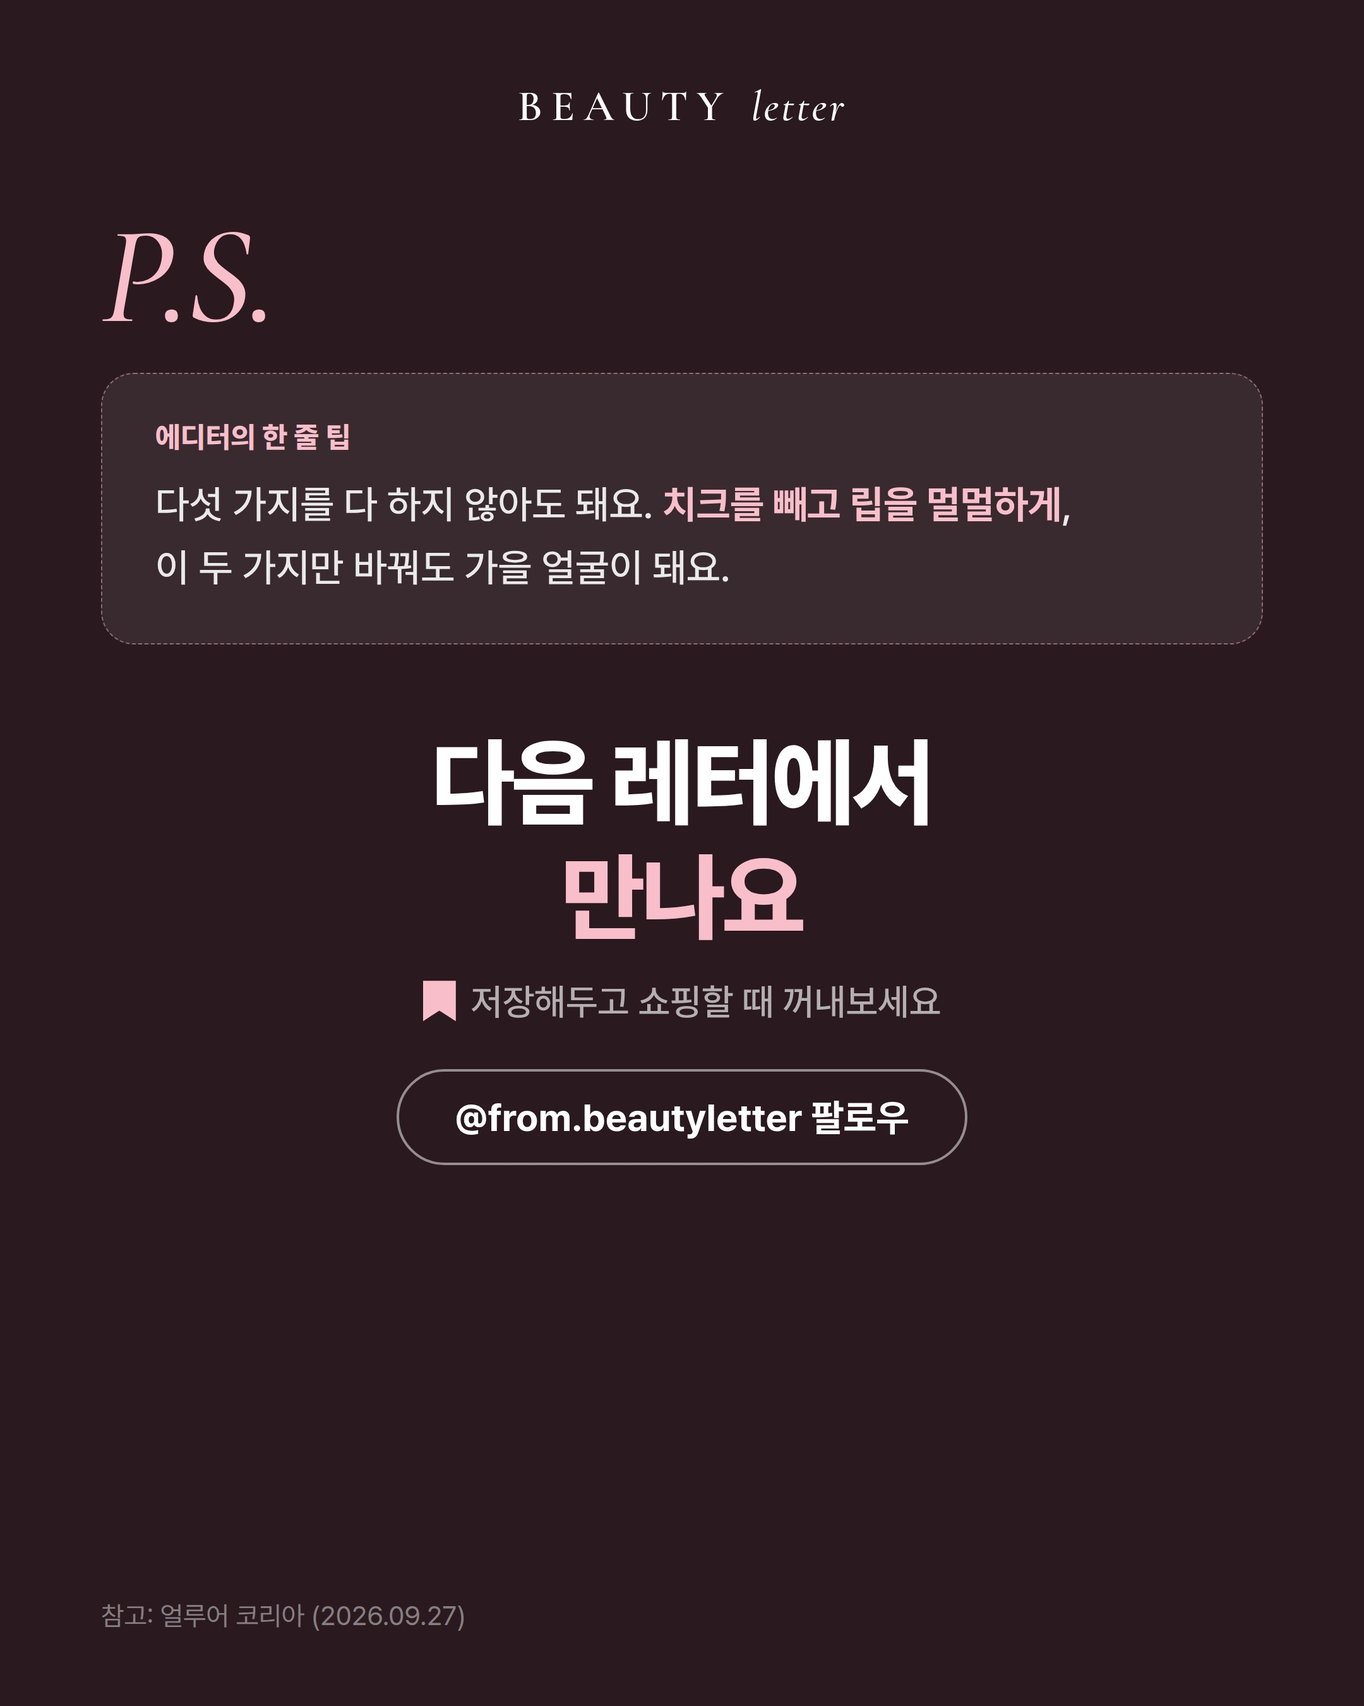
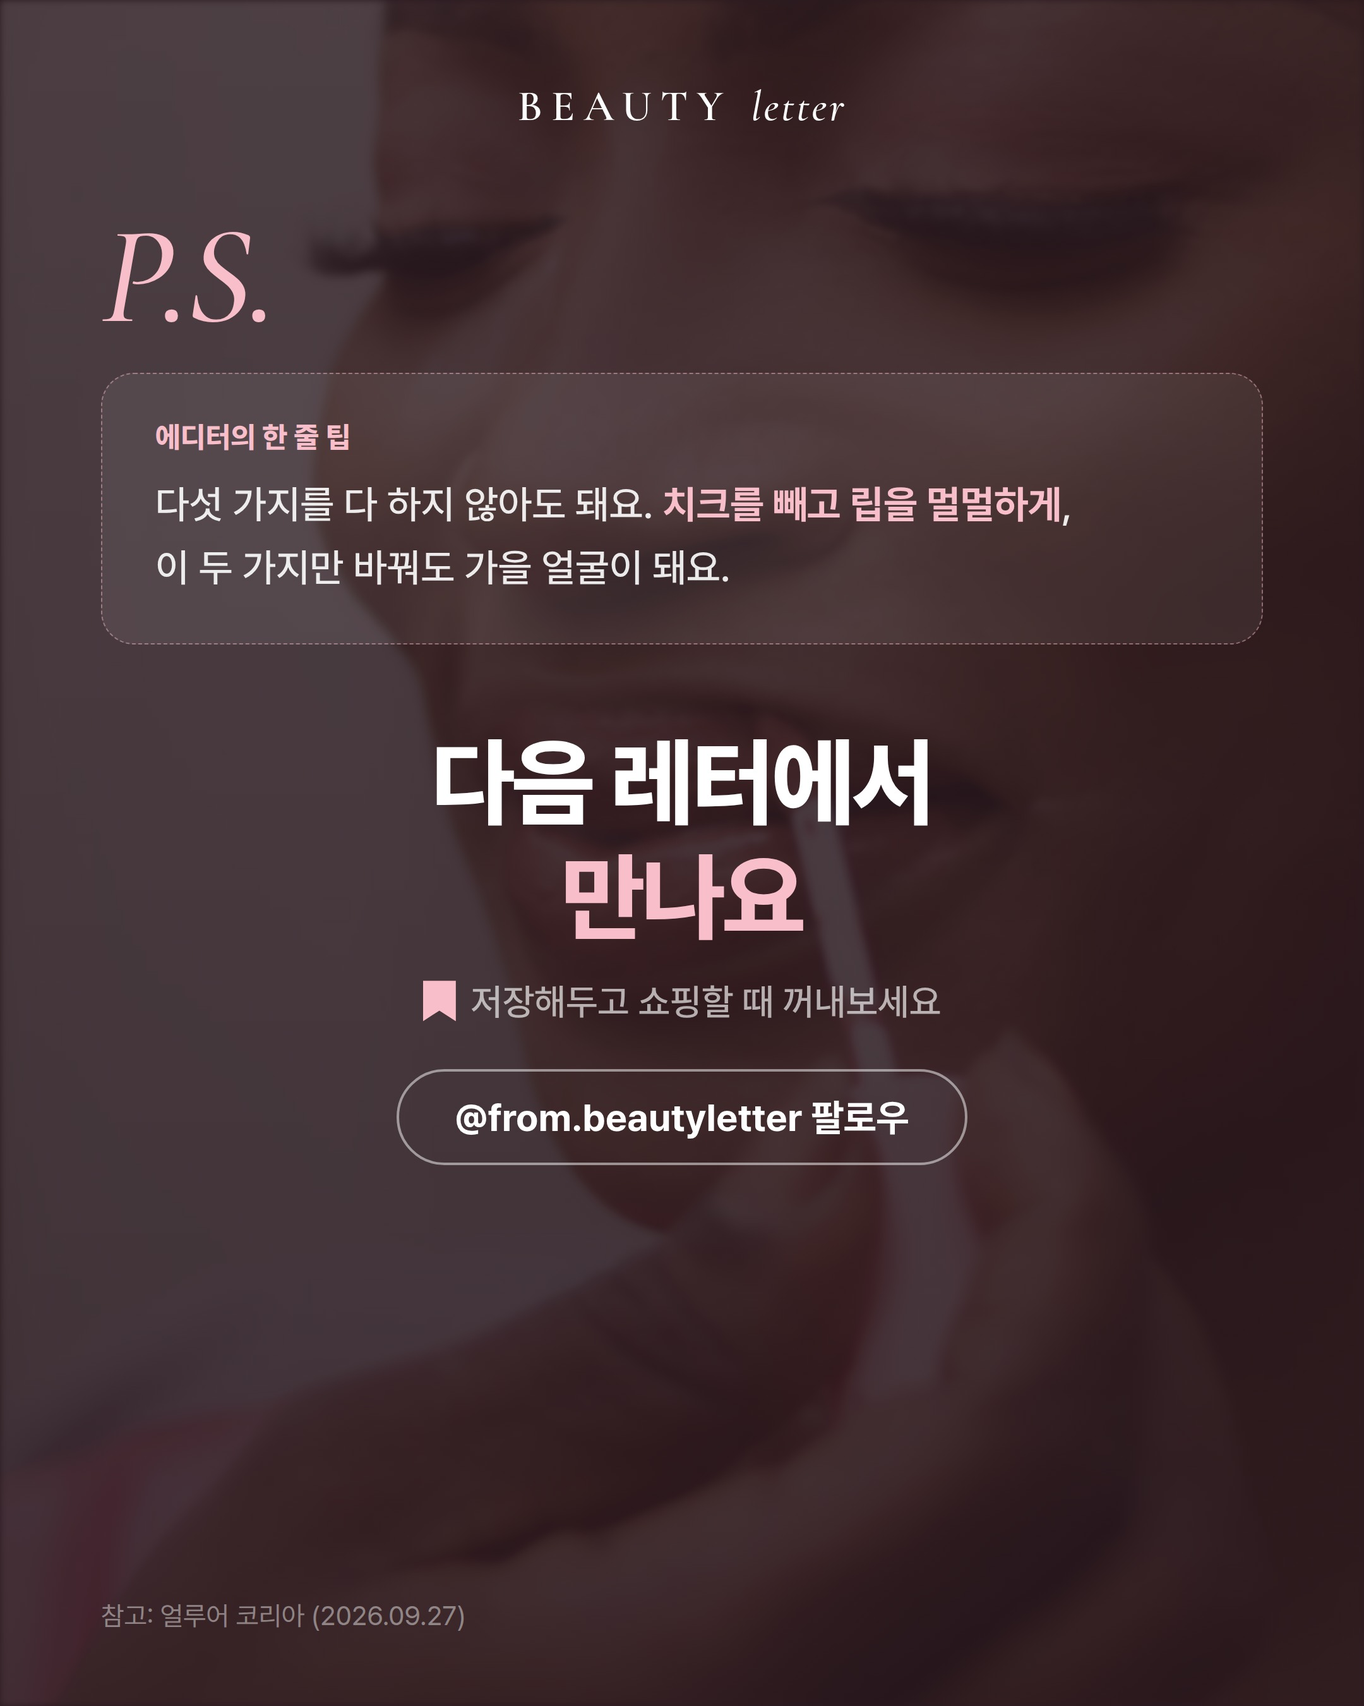
뷰티레터 10/5: 무료 입술 사진으로 표지·본문 사진 추가
Claude-Session: https://claude.ai/code/session_01M29FXMb16fvzM5BCrcufte

diff --git a/design/beauty_news/letters/2026-10-05_am_trend/slides.html b/design/beauty_news/letters/2026-10-05_am_trend/slides.html
@@ -11,13 +11,13 @@
 .new-badge { position: absolute; left: var(--pad); top: 190px; z-index: 2; font-family: var(--serif); font-style: italic; font-size: 44px; font-weight: 600; color: var(--rose); border: 2px solid var(--rose); border-radius: 999px; padding: 6px 30px 10px; }
 </style><link rel="stylesheet" href="extra.css" />
 </head><body><div class="sheet">
-<section class="card cover-type" data-name="01_cover"><div class="ring"></div><div class="ring two"></div><div class="topbar"><div class="wordmark">BEAUTY <i>letter</i></div></div>
-  <div class="big-word">Less</div>
-  <div class="body low"><div class="kicker"><span class="cat">Issue Letter</span><span class="sep">·</span><span>FALL MAKEUP TREND</span></div><h1>올가을 메이크업,<br/><span class="hl">더하기보다 빼기</span></h1><p>가을 메이크업 트렌드 5가지,<br/>이것만 기억하세요.</p></div></section>
+<section class="card cover-photo" data-name="01_cover"><div data-slot="photo"><img src="img/cover_photo.jpg" alt="" style="object-position:center 35%" /></div><div class="shade"></div><div class="topbar"><div class="wordmark">BEAUTY <i>letter</i></div></div>
+  <div class="body"><div class="kicker"><span class="cat">Issue Letter</span><span class="sep">·</span><span>FALL MAKEUP TREND</span></div><h1>올가을 메이크업,<br/><span class="em">더하기보다 빼기</span></h1><p class="sub">가을 메이크업 트렌드 5가지,<br/>이것만 기억하세요.</p></div>
+  </section>
 <section class="card trend" data-name="02_t1"><div class="topbar"><div class="wordmark" style="font-size:26px;letter-spacing:5px">BEAUTY <i>letter</i></div><div class="pageno"><b>02</b> / 07</div></div><div class="kicker">TREND 01 · BROW</div><h2>가장 먼저 바꿀 건,<br/><span class="hl">얇은 눈썹</span></h2>
 <div class="vis"><div class="cmp"><div><svg viewBox="0 0 200 60" width="240"><path d="M10 45 Q70 8 150 18 Q180 22 192 34 Q170 30 150 32 Q80 30 18 56 Z" fill="#4A3428"/></svg><span>이전 · 두껍고 일자</span></div><div class="on"><svg viewBox="0 0 200 60" width="240"><path d="M14 48 Q80 2 190 30 Q90 14 16 52 Z" fill="#4A3428"/></svg><span>올가을 · 얇은 아치형</span></div></div></div><p class="ds">90년대 무드의 가느다란 아치형 눈썹. 펜으로 그린 듯 얇은 눈썹이 <b>답답해 보이던 인상을 가볍게</b> 만들어줘요.</p><div class="tip"><span>TIP</span>인상이 답답해 보였다면 눈썹부터 얇게 다듬어 보세요.</div><div class="foot">* 출처: 얼루어 코리아 (2026.09.27)</div></section>
 <section class="card trend" data-name="03_t2"><div class="topbar"><div class="wordmark" style="font-size:26px;letter-spacing:5px">BEAUTY <i>letter</i></div><div class="pageno"><b>03</b> / 07</div></div><div class="kicker">TREND 02 · LIP</div><h2>가을엔 레드립?<br/>이젠 <span class="hl">멀멀한 누드 립</span></h2>
-<div class="vis"><div class="lips"><div><svg viewBox="0 0 200 106" width="190"><path d="M10 50 Q50 12 82 30 Q100 22 118 30 Q150 12 190 50 Q150 96 100 96 Q50 96 10 50 Z" fill="#C9967E"/><path d="M12 50 Q60 60 100 54 Q140 60 188 50" stroke="rgba(60,20,30,.35)" stroke-width="3" fill="none"/></svg><span>베이지</span></div><div><svg viewBox="0 0 200 106" width="190"><path d="M10 50 Q50 12 82 30 Q100 22 118 30 Q150 12 190 50 Q150 96 100 96 Q50 96 10 50 Z" fill="#8E5A45"/><path d="M12 50 Q60 60 100 54 Q140 60 188 50" stroke="rgba(60,20,30,.35)" stroke-width="3" fill="none"/></svg><span>브라운</span></div><div><svg viewBox="0 0 200 106" width="190"><path d="M10 50 Q50 12 82 30 Q100 22 118 30 Q150 12 190 50 Q150 96 100 96 Q50 96 10 50 Z" fill="#A9665F"/><path d="M12 50 Q60 60 100 54 Q140 60 188 50" stroke="rgba(60,20,30,.35)" stroke-width="3" fill="none"/></svg><span>로즈 브라운</span></div></div></div><p class="ds">베이지·브라운·로즈 브라운처럼 차분한 컬러. 존재감을 강하게 주장하지 않지만 <b>묘하게 기억에 남는</b> 색이에요.</p><div class="tip"><span>TIP</span>생기가 살짝 느껴질 정도의 차분한 컬러를 고르세요.</div><div class="foot">* 출처: 얼루어 코리아 (2026.09.27)</div></section>
+<div class="vis photo"><img src="img/lip_photo.jpg" alt=""/><div class="chips"><div><i style="background:#C9967E"></i><span>베이지</span></div><div><i style="background:#8E5A45"></i><span>브라운</span></div><div><i style="background:#A9665F"></i><span>로즈 브라운</span></div></div></div><p class="ds">베이지·브라운·로즈 브라운처럼 차분한 컬러. 존재감을 강하게 주장하지 않지만 <b>묘하게 기억에 남는</b> 색이에요.</p><div class="tip"><span>TIP</span>생기가 살짝 느껴질 정도의 차분한 컬러를 고르세요.</div><div class="foot">* 출처: 얼루어 코리아 (2026.09.27)</div></section>
 <section class="card trend" data-name="04_t3"><div class="topbar"><div class="wordmark" style="font-size:26px;letter-spacing:5px">BEAUTY <i>letter</i></div><div class="pageno"><b>04</b> / 07</div></div><div class="kicker">TREND 03 · CHEEK</div><h2>치크는 빼거나,<br/><span class="hl">아주 얇게</span></h2>
 <div class="vis"><div class="cmp"><div class="ck"><div class="face"><i style="opacity:0.75"></i><i class="r" style="opacity:0.75"></i></div><span>여름 · 썬번 블러셔</span></div><div class="on"><div class="ck"><div class="face"><i style="opacity:0.12"></i><i class="r" style="opacity:0.12"></i></div><span>올가을 · 있는 듯 없는 듯</span></div></div></div></div><p class="ds">여름의 썬번 메이크업과 정반대. 치크를 생략하거나 <b>있는 듯 없는 듯</b> 아주 얇게 올리는 안티 블러시예요.</p><div class="tip"><span>TIP</span>치크를 빼는 대신 립이나 눈에 포인트를 주세요.</div><div class="foot">* 출처: 얼루어 코리아 (2026.09.27)</div></section>
 <section class="card trend" data-name="05_t4"><div class="topbar"><div class="wordmark" style="font-size:26px;letter-spacing:5px">BEAUTY <i>letter</i></div><div class="pageno"><b>05</b> / 07</div></div><div class="kicker">TREND 04 · SKIN</div><h2>물광도 매트도 아닌,<br/><span class="hl">세미 글로우</span></h2>
@@ -25,7 +25,7 @@
 <section class="card trend" data-name="06_t5"><div class="topbar"><div class="wordmark" style="font-size:26px;letter-spacing:5px">BEAUTY <i>letter</i></div><div class="pageno"><b>06</b> / 07</div></div><div class="kicker">TREND 05 · EYE</div><h2>포인트 하나는<br/><span class="hl">파스텔 아이</span></h2>
 <div class="vis"><div class="pastel"><div><i style="background:radial-gradient(circle at 35% 30%, #fff 0%, #BFE8D8 45%, #8CCDB6 100%)"></i><span>민트</span></div><div><i style="background:radial-gradient(circle at 35% 30%, #fff 0%, #DCC8EE 45%, #B79BD8 100%)"></i><span>라일락</span></div><div><i style="background:radial-gradient(circle at 35% 30%, #fff 0%, #C6DDF5 45%, #93B9E4 100%)"></i><span>파스텔 블루</span></div></div></div><p class="ds">민트·라일락처럼 평소 잘 안 쓰는 컬러를 포인트로. <b>쉬머 텍스처</b>를 더하면 은은하게 빛나요.</p><div class="tip"><span>TIP</span>처음이라면 눈 앞머리나 눈두덩에만 살짝 올려 시작해요.</div><div class="foot">* 출처: 얼루어 코리아 (2026.09.27)</div></section>
 
-<section class="card ps" data-name="07_ps"><div class="wordmark">BEAUTY <i>letter</i></div>
+<section class="card ps" data-name="07_ps"><div class="bgimg"><img src="img/cover_photo.jpg" alt="" /></div><div class="wordmark">BEAUTY <i>letter</i></div>
   <div class="inner"><div class="ps-mark">P.S.</div><div class="note"><div class="label">에디터의 한 줄 팁</div><p>다섯 가지를 다 하지 않아도 돼요. <b>치크를 빼고 립을 멀멀하게</b>,<br/>이 두 가지만 바꿔도 가을 얼굴이 돼요.</p></div>
   <div class="bye"><h2>다음 레터에서<br/><em>만나요</em></h2><p><i></i>저장해두고 쇼핑할 때 꺼내보세요</p><div><span class="follow">@from.beautyletter 팔로우</span></div></div></div>
   <div class="credit">참고: 얼루어 코리아 (2026.09.27)</div></section>

diff --git a/design/beauty_news/letters/2026-10-05_pm_lip/slides.html b/design/beauty_news/letters/2026-10-05_pm_lip/slides.html
@@ -11,9 +11,9 @@
 .new-badge { position: absolute; left: var(--pad); top: 190px; z-index: 2; font-family: var(--serif); font-style: italic; font-size: 44px; font-weight: 600; color: var(--rose); border: 2px solid var(--rose); border-radius: 999px; padding: 6px 30px 10px; }
 </style><link rel="stylesheet" href="extra.css" />
 </head><body><div class="sheet">
-<section class="card cover-type" data-name="01_cover"><div class="ring"></div><div class="ring two"></div><div class="topbar"><div class="wordmark">BEAUTY <i>letter</i></div></div>
-  <div class="big-word">Lip</div>
-  <div class="body low"><div class="kicker"><span class="cat">Issue Letter</span><span class="sep">·</span><span>MEOLMEOL LIP</span></div><h1>요즘 다들 바르는<br/><span class="hl">'멀멀 립'</span> 만드는 법</h1><p>펜슬, 틴트, 글로스까지 차곡차곡.<br/>4가지 방법을 담았어요.</p></div></section>
+<section class="card cover-photo" data-name="01_cover"><div data-slot="photo"><img src="img/cover_photo.jpg" alt="" style="object-position:center 45%" /></div><div class="shade"></div><div class="topbar"><div class="wordmark">BEAUTY <i>letter</i></div></div>
+  <div class="body"><div class="kicker"><span class="cat">Issue Letter</span><span class="sep">·</span><span>MEOLMEOL LIP</span></div><h1>요즘 다들 바르는<br/><span class="em">'멀멀 립'</span> 만드는 법</h1><p class="sub">펜슬, 틴트, 글로스까지 차곡차곡.<br/>4가지 방법을 담았어요.</p></div>
+  </section>
 <section class="card mlip" data-name="02_m1"><div class="topbar"><div class="wordmark" style="font-size:26px;letter-spacing:5px">BEAUTY <i>letter</i></div><div class="pageno"><b>02</b> / 06</div></div><div class="kicker">METHOD 01 · BLUR + GLOSS</div><h2>블러 틴트 깔고,<br/><span class="hl">채도는 낮추고</span></h2>
 <div class="vis"><div><div class="l"><svg viewBox="0 0 200 106" width="200"><path d="M10 50 Q50 12 82 30 Q100 22 118 30 Q150 12 190 50 Q150 96 100 96 Q50 96 10 50 Z" fill="#E9C9C3"/><path d="M12 50 Q60 60 100 54 Q140 60 188 50" stroke="rgba(60,20,30,.35)" stroke-width="3" fill="none"/><path d="M6 50 Q50 6 82 26 Q100 16 118 26 Q150 6 194 50 Q150 100 100 100 Q50 100 6 50 Z" fill="none" stroke="#9B6E7E" stroke-width="5"/></svg></div><span>모브 펜슬로 오버립</span></div><div><div class="l"><svg viewBox="0 0 200 106" width="200"><path d="M10 50 Q50 12 82 30 Q100 22 118 30 Q150 12 190 50 Q150 96 100 96 Q50 96 10 50 Z" fill="#C98D86"/><path d="M12 50 Q60 60 100 54 Q140 60 188 50" stroke="rgba(60,20,30,.35)" stroke-width="3" fill="none"/></svg></div><span>블러 틴트 베이스</span></div><div><div class="l"><svg viewBox="0 0 200 106" width="200"><path d="M10 50 Q50 12 82 30 Q100 22 118 30 Q150 12 190 50 Q150 96 100 96 Q50 96 10 50 Z" fill="#CDA39D"/><path d="M12 50 Q60 60 100 54 Q140 60 188 50" stroke="rgba(60,20,30,.35)" stroke-width="3" fill="none"/><ellipse cx="100" cy="68" rx="34" ry="7" fill="rgba(255,255,255,.45)"/></svg></div><span>글로스로 물먹립</span></div></div><ol><li><b>1</b><p><b>모브 톤 립 펜슬</b>로 입술 라인을 넓혀 원하는 오버립 윤곽을 잡아요.</p></li><li><b>2</b><p>주름을 메워주는 보송한 <b>블러 틴트</b>를 베이스로 넓게 깔아요.</p></li><li><b>3</b><p>색이 너무 쨍하면 <b>흰기 도는 투명한 립</b>을 덧발라 채도를 낮춰요.</p></li><li><b>4</b><p>마지막에 <b>바닐라 빛 볼륨 글로스</b>를 은은하게 얹어요.</p></li></ol><div class="foot">* 출처: 얼루어 코리아 (2026.09.30)</div></section>
 <section class="card mlip" data-name="03_m2"><div class="topbar"><div class="wordmark" style="font-size:26px;letter-spacing:5px">BEAUTY <i>letter</i></div><div class="pageno"><b>03</b> / 06</div></div><div class="kicker">METHOD 02 · FOR BEGINNER</div><h2>왕초보라면,<br/><span class="hl">단정한 오버립</span></h2>
@@ -23,7 +23,7 @@
 <section class="card mlip" data-name="05_m4"><div class="topbar"><div class="wordmark" style="font-size:26px;letter-spacing:5px">BEAUTY <i>letter</i></div><div class="pageno"><b>05</b> / 06</div></div><div class="kicker">METHOD 04 · MATTE</div><h2>가을엔 톡톡,<br/><span class="hl">매트 오버립</span></h2>
 <div class="vis"><div><div class="l"><svg viewBox="0 0 200 106" width="200"><path d="M10 50 Q50 12 82 30 Q100 22 118 30 Q150 12 190 50 Q150 96 100 96 Q50 96 10 50 Z" fill="#E6CFC6"/><path d="M12 50 Q60 60 100 54 Q140 60 188 50" stroke="rgba(60,20,30,.35)" stroke-width="3" fill="none"/><path d="M6 50 Q50 6 82 26 Q100 16 118 26 Q150 6 194 50 Q150 100 100 100 Q50 100 6 50 Z" fill="none" stroke="#B07E62" stroke-width="5"/></svg></div><span>피치·브라운 펜슬</span></div><div><div class="l"><svg viewBox="0 0 200 106" width="200"><path d="M10 50 Q50 12 82 30 Q100 22 118 30 Q150 12 190 50 Q150 96 100 96 Q50 96 10 50 Z" fill="#A8705C"/><path d="M12 50 Q60 60 100 54 Q140 60 188 50" stroke="rgba(60,20,30,.35)" stroke-width="3" fill="none"/></svg></div><span>브라운 매트 톡톡</span></div><div><div class="l"><svg viewBox="0 0 200 106" width="200"><path d="M10 50 Q50 12 82 30 Q100 22 118 30 Q150 12 190 50 Q150 96 100 96 Q50 96 10 50 Z" fill="#A8705C"/><ellipse cx="100" cy="52" rx="38" ry="16" fill="#8E5A48" opacity=".85"/><path d="M12 50 Q60 60 100 54 Q140 60 188 50" stroke="rgba(60,20,30,.35)" stroke-width="3" fill="none"/></svg></div><span>도톰하면 안쪽만</span></div></div><ol><li><b>1</b><p>파운데이션으로 덮지 말고 <b>피치·브라운 펜슬</b>로 칙칙한 입술 라인부터 교정해요.</p></li><li><b>2</b><p><b>베이지·브라운 매트 립</b>을 손가락이나 브러시로 톡톡 얇게 밀착해요.</p></li><li><b>3</b><p>라인이 진해 보이지 않게 <b>펜슬로 경계를 한 번 더 풀어요.</b></p></li><li><b>4</b><p>입술이 도톰하면 <b>안쪽에만</b> 발라 여백을 남겨요.</p></li></ol><div class="foot">* 출처: 얼루어 코리아 (2026.09.30)</div></section>
 
-<section class="card ps" data-name="06_ps"><div class="wordmark">BEAUTY <i>letter</i></div>
+<section class="card ps" data-name="06_ps"><div class="bgimg"><img src="img/cover_photo.jpg" alt="" /></div><div class="wordmark">BEAUTY <i>letter</i></div>
   <div class="inner"><div class="ps-mark">P.S.</div><div class="note"><div class="label">에디터의 한 줄 팁</div><p>멀멀 립의 핵심은 <b>채도 낮추기.</b> 새로 사지 말고<br/>갖고 있는 쨍한 립에 누드 핑크를 섞어 먼저 만들어 보세요.</p></div>
   <div class="bye"><h2>다음 레터에서<br/><em>만나요</em></h2><p><i></i>저장해두고 쇼핑할 때 꺼내보세요</p><div><span class="follow">@from.beautyletter 팔로우</span></div></div></div>
   <div class="credit">참고: 얼루어 코리아 (2026.09.30)</div></section>

diff --git a/design/beauty_news/letters/2026-10-05_am_trend/extra.css b/design/beauty_news/letters/2026-10-05_am_trend/extra.css
@@ -35,3 +35,10 @@
 .trend .pastel i { width: 210px; height: 210px; }
 .trend .vis span { font-size: 26px; }
 .trend .ds { font-size: 31px; }
+
+.trend .vis.photo { position: relative; overflow: hidden; padding: 0; }
+.trend .vis.photo img { position: absolute; inset: 0; width: 100%; height: 100%; object-fit: cover; object-position: center 55%; }
+.trend .vis.photo .chips { position: absolute; left: 24px; bottom: 22px; display: flex; gap: 12px; }
+.trend .vis.photo .chips > div { display: flex; align-items: center; gap: 10px; background: rgba(255,255,255,.92); border-radius: 999px; padding: 8px 18px 8px 8px; opacity: 1; }
+.trend .vis.photo .chips i { width: 34px; height: 34px; border-radius: 50%; display: block; }
+.trend .vis.photo .chips span { margin: 0; font-size: 22px; }

diff --git a/design/beauty_news/DESIGN_GUIDE.md b/design/beauty_news/DESIGN_GUIDE.md
@@ -84,7 +84,7 @@
 기본은 **풍경 배경 + 제품 누끼** 표지(`cover.style: "scene"`, `bg`·`image` 또는 `big`)입니다. 얼굴 없는 감성 사진을 흐리게 깔고 가운데에 누끼를 크게 올립니다.
 **인물 사진 표지는 메이크업을 보여줘야 하는 레터에만** 씁니다: `letter.json`의 `cover.style`을 `"photo"`로 두고 `image`, `focus`(사진 위치), `credit`(출처 한 줄)을 넣습니다.
 1. **AI 생성 (Topview)**: 인물이 나오는 일상 감성 컷. 1장에 약 0.3크레딧(Nano Banana 2 Lite, 1K, 4:5). **월 50크레딧 안에서만** 씁니다. **만들기 전에 반드시 사용자에게 먼저 허락을 받고**(무엇을 왜 만드는지, 예상 크레딧을 말한 뒤), **한 번에 1장만** 만들고(여분 생성 금지), 사용자가 보고 다시 요청할 때만 새로 만듭니다. AI 표기는 표지가 아니라 캡션에 한 줄로 넣습니다.
-2. **무료 사진 (Pexels/Unsplash)**: 상업 사용 가능. 출처는 `sources.md`에 적습니다(표지에는 넣지 않음).
+2. **무료 사진 (Pexels/Unsplash)** — 표지와 본문에 넣을 수 있는 무료 사진은 **먼저 찾아서 넣는다**(글자만 있는 표지·그림만 있는 본문으로 넘기지 않기, 2026-10-03).: 상업 사용 가능. 출처는 `sources.md`에 적습니다(표지에는 넣지 않음).
 3. **핀터레스트**: 원작자를 찾을 수 있는 사진만, 배경으로만 씁니다. 연예인·셀럽 얼굴 금지. 표기는 `@pinterest`가 아니라 원작자 이름. 요청이 오면 바로 내립니다.
 - 사진마다 `sources.md`에 출처 URL을 적습니다.
 

diff --git a/design/beauty_news/letters/2026-10-05_am_trend/sources.md b/design/beauty_news/letters/2026-10-05_am_trend/sources.md
@@ -3,6 +3,7 @@
 | 항목 | 출처 |
 |---|---|
 | 가을 메이크업 트렌드 5(얇은 눈썹·누드 립·안티 블러시·세미 글로우·파스텔) | 얼루어 코리아 "멀멀한 입술부터 힘을 뺀 눈썹까지, 가을 메이크업 트렌드 5" (2026.09.27) |
+| img/cover_photo.jpg | Pexels "Woman Applying Lip Gloss for a Natural Makeup Look" https://www.pexels.com/photo/woman-applying-lip-gloss-for-a-natural-makeup-look-33951062/ |
+| img/lip_photo.jpg | Pexels "Close-up of Open Lipstick in Hands" https://www.pexels.com/photo/close-up-of-open-lipstick-in-hands-23103541/ |
 
 - 눈썹·입술·볼·피부 그림은 CSS/SVG로 직접 그린 예시. 셀럽 이름·사진은 쓰지 않음.
-- 표지는 타이포형(사진 없음). AI 표지는 사용자 허락 후에만.

diff --git a/design/beauty_news/letters/2026-10-05_pm_lip/sources.md b/design/beauty_news/letters/2026-10-05_pm_lip/sources.md
@@ -3,6 +3,6 @@
 | 항목 | 출처 |
 |---|---|
 | 멀멀 립 4가지 방법(블러 틴트+글로스, 왕초보 오버립, 믹스 립, 매트 오버립) | 얼루어 코리아 "요즘 인플루언서 사이에서 유행하는 '멀멀 립' 만드는 비법" (2026.09.30) |
+| img/cover_photo.jpg | Pexels "A Close-up Shot of a Person Applying Lipstick" https://www.pexels.com/photo/a-close-up-shot-of-a-person-applying-lipstick-7290085/ |
 
 - 입술 그림은 CSS/SVG로 직접 그린 예시. 기사 속 SNS 사진은 쓰지 않음.
-- 표지는 타이포형(사진 없음). AI 표지는 사용자 허락 후에만.
